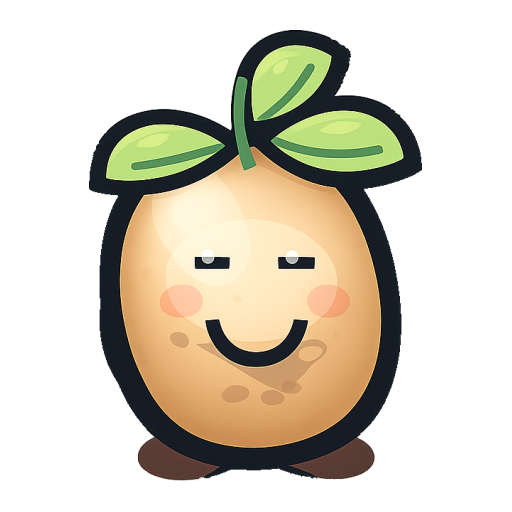
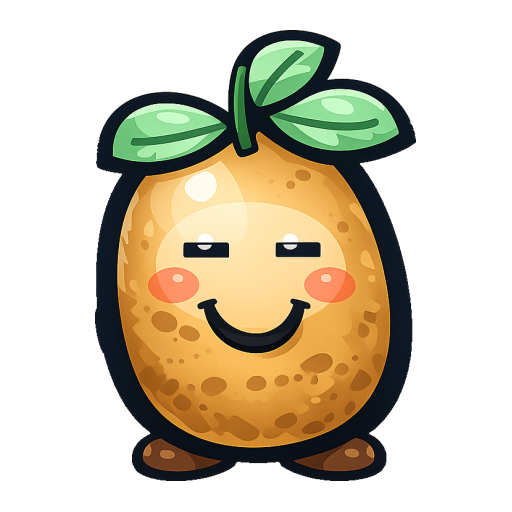
Fix character mapping, animate portraits, faster difficulty ramp
- Correct character art: Sprout=faint green, Chunk=spotty/darker/larger,
  Zip=yellow leaves (Sprout/Chunk were swapped; re-cropped hi-res, Sprout
  source rotated upright)
- Character-select portraits now idle-animate (bob + breathing + lean) via
  the main loop while the select screen is open
- Difficulty gets harder quicker: steeper enemy HP/damage/speed scaling,
  faster spawn rate, bigger early batches, higher active cap, and tougher
  enemies unlock ~2 waves sooner

diff --git a/js/07-combat.js b/js/07-combat.js
@@ -311,22 +311,25 @@ function enemySpawnInterval() {
   const elapsedRatio = state.waveDuration
     ? clamp((state.waveDuration - state.waveTime) / state.waveDuration, 0, 1)
     : 0;
-  const wavePressure = Math.pow(1.13, wave - 1) * (1 + Math.max(0, wave - 6) * 0.035 + Math.max(0, wave - 13) * 0.045);
-  const lateWavePush = 1 + elapsedRatio * Math.min(0.34, wave * 0.016);
-  return Math.max(0.18, 1.48 / Math.min(9.5, wavePressure * lateWavePush));
+  // Steeper spawn-rate ramp (1.13 -> 1.19 base) so the arena fills up sooner each wave.
+  const wavePressure = Math.pow(1.19, wave - 1) * (1 + Math.max(0, wave - 6) * 0.04 + Math.max(0, wave - 13) * 0.045);
+  const lateWavePush = 1 + elapsedRatio * Math.min(0.4, wave * 0.02);
+  return Math.max(0.16, 1.48 / Math.min(10.5, wavePressure * lateWavePush));
 }
 
 function enemySpawnBatchSize() {
   const wave = Math.max(1, state.wave);
-  const growth = Math.floor(Math.pow(Math.max(0, wave - 3), 1.17) / 4.3);
+  // Bigger early batches (kicks in from wave 2 instead of 3, steeper exponent).
+  const growth = Math.floor(Math.pow(Math.max(0, wave - 1), 1.22) / 3.4);
   const midBonus = Math.floor(Math.max(0, wave - 8) / 4);
   const lateBonus = Math.floor(Math.max(0, wave - 13) / 3);
-  return Math.min(13, 1 + growth + midBonus + lateBonus);
+  return Math.min(14, 1 + growth + midBonus + lateBonus);
 }
 
 function enemyActiveCap() {
   const wave = Math.max(1, state.wave);
-  const curve = 24 + wave * 9.6 + Math.pow(Math.max(0, wave - 4), 1.4) * 2.6 + Math.max(0, wave - 10) * 5.1;
+  // Higher concurrent-enemy cap earlier, so the screen gets crowded sooner.
+  const curve = 28 + wave * 12 + Math.pow(Math.max(0, wave - 3), 1.45) * 2.8 + Math.max(0, wave - 10) * 5.1;
   return Math.min(MAX_ENEMIES, Math.round(curve));
 }
 
@@ -429,10 +432,12 @@ function enemyScaling() {
   const growth = wave - 1;
   const midGame = Math.max(0, wave - 6);
   const lateGame = Math.max(0, wave - 12);
+  // Faster ramp: enemies gain HP/damage/speed noticeably sooner so early waves stop
+  // feeling like a warm-up. Per-wave growth roughly doubled in the early band.
   return {
-    hp: 1 + growth * 0.045 + midGame * 0.055 + lateGame * 0.085,
-    damage: 1 + growth * 0.018 + midGame * 0.018 + lateGame * 0.03,
-    speed: 1 + Math.min(0.12, growth * 0.0035)
+    hp: 1 + growth * 0.085 + midGame * 0.06 + lateGame * 0.085,
+    damage: 1 + growth * 0.032 + midGame * 0.022 + lateGame * 0.03,
+    speed: 1 + Math.min(0.18, growth * 0.006)
   };
 }
 

diff --git a/js/06-shop.js b/js/06-shop.js
@@ -1054,25 +1054,56 @@ function drawPlayerPreview() {
   pctx.restore();
 }
 
+// Live registry of character-select portraits so the main loop can animate them (idle
+// bob + breathing) while the select screen is open. Cleared when leaving the screen.
+const characterPortraits = [];
+
 function drawCharacterPortrait(portraitCanvas, character) {
+  portraitCanvas._character = character;
+  if (!characterPortraits.includes(portraitCanvas)) characterPortraits.push(portraitCanvas);
+  paintCharacterPortrait(portraitCanvas, performance.now());
+}
+
+function paintCharacterPortrait(portraitCanvas, now) {
+  const character = portraitCanvas._character;
+  if (!character) return;
   const pctx = portraitCanvas.getContext("2d");
   const cx = portraitCanvas.width / 2;
   const cy = portraitCanvas.height / 2 + 16;
+  const t = now / 1000;
+
   pctx.clearRect(0, 0, portraitCanvas.width, portraitCanvas.height);
   const bg = pctx.createLinearGradient(0, 0, portraitCanvas.width, portraitCanvas.height);
   bg.addColorStop(0, "#31475c");
   bg.addColorStop(1, "#182333");
   pctx.fillStyle = bg;
   pctx.fillRect(0, 0, portraitCanvas.width, portraitCanvas.height);
+
+  // Idle animation: gentle bob, breathing squash, and a faint lean unique per character.
+  const seed = (character.id ?? "x").charCodeAt(0);
+  const bob = Math.sin(t * 1.7 + seed) * 4;
+  const breathe = 1 + Math.sin(t * 1.4 + seed) * 0.05;
+  const lean = Math.sin(t * 1.05 + seed) * 0.04;
+
+  // Shadow shrinks a touch as the potato lifts, so the bob reads as a hop.
   pctx.fillStyle = "rgba(0, 0, 0, 0.25)";
   pctx.beginPath();
-  pctx.ellipse(cx, cy + 44, 48, 13, 0, 0, Math.PI * 2);
+  pctx.ellipse(cx, cy + 44, 48 - bob * 0.6, 13, 0, 0, Math.PI * 2);
   pctx.fill();
+
   pctx.save();
-  pctx.translate(cx, cy);
-  pctx.scale(1.75 * (character.scale ?? 1), 1.75 * (character.scale ?? 1));
+  pctx.translate(cx, cy + bob);
+  pctx.rotate(lean);
+  const s = 1.75 * (character.scale ?? 1);
+  pctx.scale(s * breathe, s * (2 - breathe));
   drawSpudBody(pctx, character);
   pctx.restore();
+}
+
+function renderCharacterPortraits(now) {
+  // Skip when the select screen isn't showing (keeps the loop cheap elsewhere).
+  if (!ui.startMenu || ui.startMenu.classList.contains("hidden")) return;
+  for (const canvas of characterPortraits) paintCharacterPortrait(canvas, now);
 }
 
 function drawPreviewGear(pctx) {

diff --git a/js/01-core.js b/js/01-core.js
@@ -93,12 +93,12 @@ const DRUMMER_DAMAGE_MULTIPLIER = 1.1;
 const enemyTypes = [
   { name: "Nibbler", behavior: "chase", size: "small", color: "#f1766e", hp: 9, speed: 106, radius: 16, damage: 6, scrap: 1, minWave: 1, weight: 8 },
   { name: "Skitter", behavior: "chase", size: "small", color: "#88d27a", hp: 6, speed: 158, radius: 12, damage: 4, scrap: 1, minWave: 2, weight: 6 },
-  { name: "Bruiser", behavior: "chase", size: "large", color: "#b28cf2", hp: 42, speed: 45, radius: 28, damage: 20, scrap: 4, minWave: 4, weight: 2 },
-  { name: "Darter", behavior: "charge", size: "medium", color: "#ff9c5b", hp: 57, speed: 68, radius: 18, damage: 15, scrap: 2, minWave: 5, weight: 3 },
-  { name: "Ember Glob", behavior: "fireball", size: "medium", color: "#e56f45", hp: 16, speed: 52, radius: 17, damage: 5, scrap: 2, minWave: 6, weight: 1 },
-  { name: "Spitter", behavior: "shoot", size: "medium", color: "#66c7d8", hp: 20, speed: 58, radius: 18, damage: 10, scrap: 2, minWave: 6, weight: 3 },
-  { name: "Orbiter", behavior: "orbit", size: "small", color: "#f2d35f", hp: 11, speed: 162, radius: 14, damage: 6, scrap: 1, minWave: 7, weight: 3 },
-  { name: "Drummer", behavior: "buffer", size: "large", color: "#ff7eb6", hp: 58, speed: 36, radius: 30, damage: 18, scrap: 5, minWave: 9, weight: 1 }
+  { name: "Bruiser", behavior: "chase", size: "large", color: "#b28cf2", hp: 42, speed: 45, radius: 28, damage: 20, scrap: 4, minWave: 3, weight: 2 },
+  { name: "Darter", behavior: "charge", size: "medium", color: "#ff9c5b", hp: 57, speed: 68, radius: 18, damage: 15, scrap: 2, minWave: 4, weight: 3 },
+  { name: "Ember Glob", behavior: "fireball", size: "medium", color: "#e56f45", hp: 16, speed: 52, radius: 17, damage: 5, scrap: 2, minWave: 5, weight: 1 },
+  { name: "Spitter", behavior: "shoot", size: "medium", color: "#66c7d8", hp: 20, speed: 58, radius: 18, damage: 10, scrap: 2, minWave: 5, weight: 3 },
+  { name: "Orbiter", behavior: "orbit", size: "small", color: "#f2d35f", hp: 11, speed: 162, radius: 14, damage: 6, scrap: 1, minWave: 6, weight: 3 },
+  { name: "Drummer", behavior: "buffer", size: "large", color: "#ff7eb6", hp: 58, speed: 36, radius: 30, damage: 18, scrap: 5, minWave: 7, weight: 1 }
 ];
 
 const rarities = {

diff --git a/js/04-flow.js b/js/04-flow.js
@@ -386,6 +386,7 @@ function hideReward() {
 
 function renderCharacterSelect() {
   ui.characterCards.innerHTML = "";
+  characterPortraits.length = 0;   // old portrait canvases are gone; drop stale refs
   for (const character of characters) {
     const card = document.createElement("article");
     card.className = "character-card";

diff --git a/js/09-main.js b/js/09-main.js
@@ -14,6 +14,8 @@ function loop(now) {
   if (animatedIcons.size > 0) {
     renderAnimatedIcons(now);
   }
+  // Idle-animate the character-select portraits (no-op unless that screen is open).
+  renderCharacterPortraits(now);
   requestAnimationFrame(loop);
 }
 
